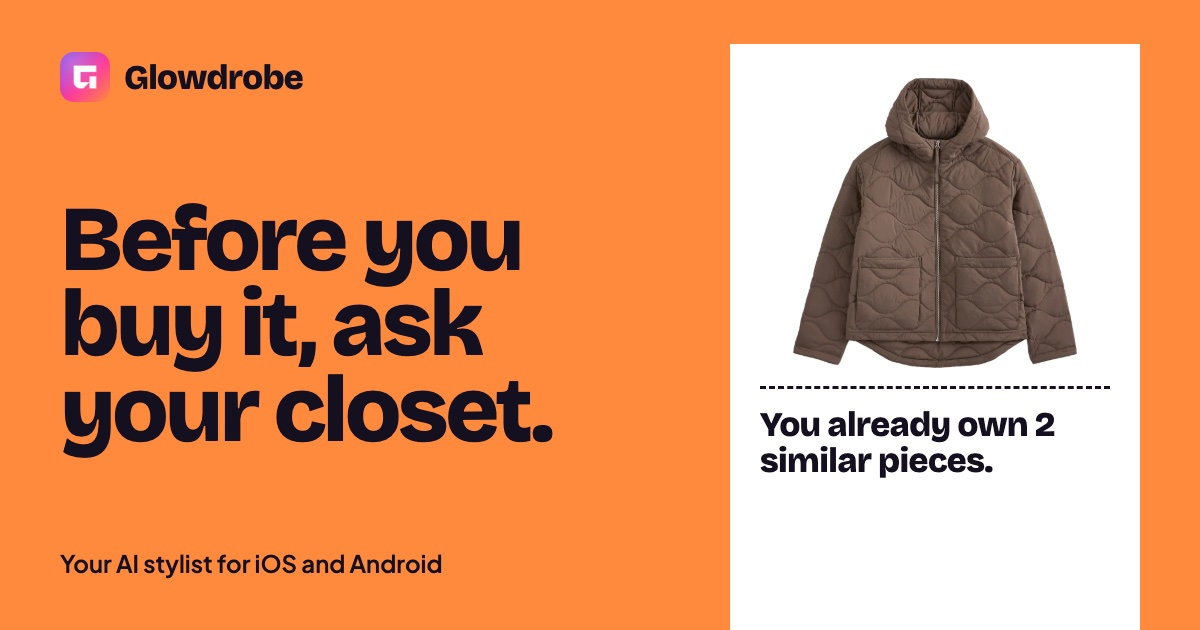
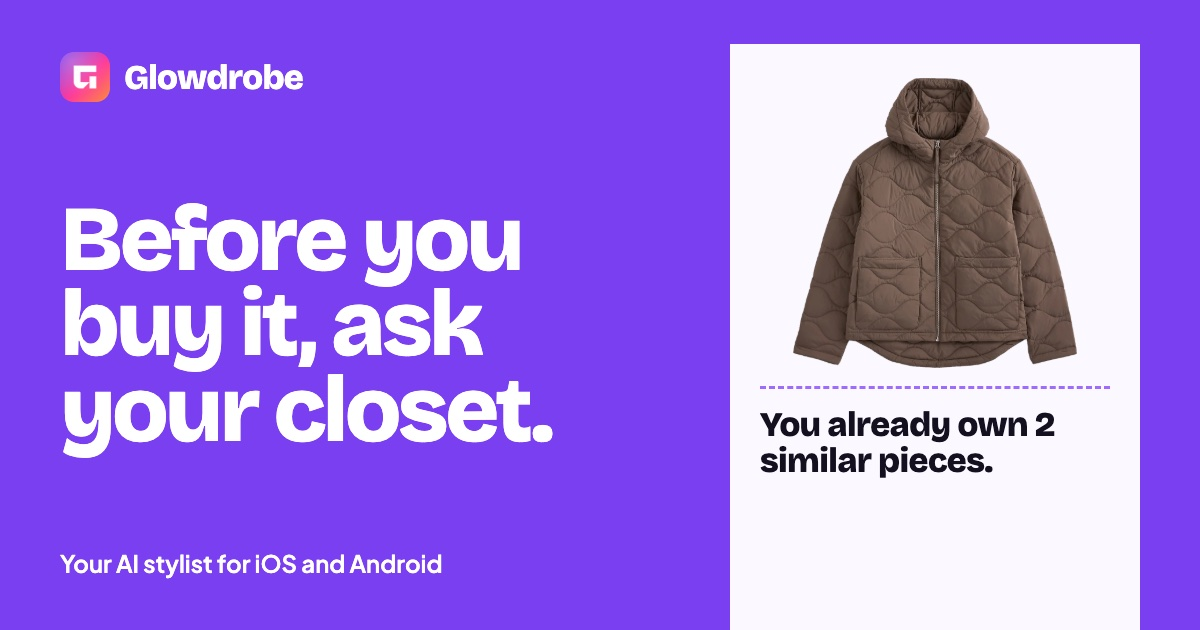
Match the mobile app: violet ground, lilac paper, lime action

diff --git a/assets/css/site.css b/assets/css/site.css
@@ -98,7 +98,7 @@ html[data-launch="live"] [data-when="prelaunch"] { display: none !important; }
   *, *::before, *::after { animation-duration: .01ms !important; animation-iteration-count: 1 !important; transition-duration: .01ms !important; }
 }
 
-body { background: var(--tangerine); --focus-ring: rgba(20, 16, 31, .28); }
+body { background: var(--violet); color: #fff; --focus-ring: rgba(255, 255, 255, .85); }
 .split { display: grid; grid-template-columns: minmax(0, 1.08fr) minmax(0, 1fr); gap: clamp(20px, 4vw, 72px); padding-inline-end: clamp(20px, 5vw, 88px); }
 .side { position: sticky; top: 0; height: 100svh; min-height: 620px; display: flex; flex-direction: column; justify-content: space-between; padding-block: 22px; padding-inline-start: var(--gutter); }
 .side-mid { display: grid; gap: 20px; }
@@ -118,7 +118,7 @@ body { background: var(--tangerine); --focus-ring: rgba(20, 16, 31, .28); }
 .scan h2 { font-size: 30px; margin-bottom: 12px; }
 .tabs { display: flex; flex-wrap: wrap; gap: 6px; }
 .tabs button { min-height: 44px; padding: 0 14px; border: 2px solid var(--ink); border-radius: 8px; background: #fff; font-weight: 700; font-size: 15px; transition: background .2s, color .2s; }
-.tabs button:hover { background: #FFE7D6; }
+.tabs button:hover { background: var(--lilac-2); }
 .tabs button[aria-selected="true"] { background: var(--ink); color: #fff; }
 .scan-item { position: relative; display: grid; place-items: center; height: clamp(170px, 23vh, 240px); margin-top: 14px; overflow: hidden; background: #FFF1E6; border-radius: 10px; }
 .scan-item img { position: absolute; inset: 6%; width: 88%; height: 88%; object-fit: contain; }
@@ -186,7 +186,7 @@ body { background: var(--tangerine); --focus-ring: rgba(20, 16, 31, .28); }
 .langs summary svg { width: 20px; height: 20px; }
 .langs ul { position: absolute; z-index: 20; top: 100%; inset-inline-end: 0; width: max-content; max-height: 70vh; overflow-y: auto; padding: 8px; background: #fff; color: var(--ink); border: 2px solid var(--ink); border-radius: 12px; columns: 2; column-gap: 8px; }
 .langs a { display: block; padding: 8px 10px; border-radius: 8px; text-decoration: none; break-inside: avoid; }
-.langs a:hover { background: #FFE7D6; }
+.langs a:hover { background: var(--lilac-2); }
 .langs a[aria-current] { font-weight: 700; background: var(--ink); color: #fff; }
 
 /* Scripts the brand faces don't cover use the platform's own type, untracked. */
@@ -321,3 +321,35 @@ html:lang(ja) .cta-note { word-break: keep-all; }
 /* The pill is the field: its ring shows focus, so the input inside draws none of its own. */
 .notify input:focus, .notify input:focus-visible { outline: 0; box-shadow: none; }
 .notify-row:focus-within { box-shadow: 0 0 0 3px var(--ink); }
+
+/* App identity: violet ground and actions, lime for the one accent, lilac surfaces. */
+:focus-visible { outline-color: #fff; box-shadow: 0 0 0 3px var(--ink); }
+.paper :focus-visible { outline-color: var(--violet); box-shadow: 0 0 0 3px var(--lilac-2); }
+.paper { color: var(--ink); background: var(--lilac); }
+.paper::before { background: linear-gradient(135deg, transparent 50%, var(--lilac) 50%) 0 0 / 18px 18px repeat-x, linear-gradient(225deg, transparent 50%, var(--lilac) 50%) 0 0 / 18px 18px repeat-x; }
+.paper::after { background: linear-gradient(45deg, transparent 50%, var(--lilac) 50%) 0 100% / 18px 18px repeat-x, linear-gradient(315deg, transparent 50%, var(--lilac) 50%) 0 100% / 18px 18px repeat-x; }
+.langs ul { color: var(--ink); }
+.langs a[aria-current] { background: var(--violet); }
+.side .notify-row { border-color: #fff; }
+.side .notify-row:focus-within { box-shadow: 0 0 0 3px var(--lime); }
+.side .notify input, .paper .notify input { color: var(--ink); }
+.side .notify button { background: var(--lime); color: var(--ink); }
+.side .notify button:hover { background: #D4FF4F; }
+.side .notify-msg[data-state="error"] { background: var(--ink); }
+.paper .notify-row { border-color: var(--violet); }
+.paper .notify-row:focus-within { box-shadow: 0 0 0 3px var(--lilac-2); }
+.paper .notify button { background: var(--violet); }
+.paper .notify button:hover { background: var(--violet-deep); }
+.tabs button { border-color: var(--violet); color: var(--violet-deep); }
+.tabs button[aria-selected="true"] { background: var(--violet); border-color: var(--violet); color: #fff; }
+.line-check { background: var(--violet); }
+.head, .scan, .li { border-bottom-color: var(--violet-bright); }
+.print i, .extras i { border-bottom-color: var(--violet-bright); }
+.barcode { color: var(--violet-deep); }
+.prices th, .prices td, .paper .faq details { border-bottom-color: var(--lilac-2); }
+.paper a { color: var(--violet-deep); }
+.foot, .paper + .foot { color: #fff; }
+.dock a { background: var(--violet); }
+.store { background: var(--ink); color: #fff; }
+.paper .store { color: #fff; }
+::selection { background: var(--lime); color: var(--ink); }

diff --git a/ru/index.html b/ru/index.html
@@ -5,7 +5,7 @@
 <meta name="viewport" content="width=device-width, initial-scale=1, viewport-fit=cover">
 <title>Glowdrobe: приложение-гардероб, ИИ-стилист и подбор образов</title>
 <meta name="description" content="Glowdrobe — ИИ-стилист для iOS и Android. Собирай образы из своей одежды, сверяй новые вещи с гардеробом и смотри, как образ выглядит на твоём фото.">
-<meta name="theme-color" content="#FF8A3D">
+<meta name="theme-color" content="#7B3FF2">
 <link rel="canonical" href="https://glowdrobe.ai/ru/">
 <link rel="alternate" hreflang="en" href="https://glowdrobe.ai/">
 <link rel="alternate" hreflang="ar" href="https://glowdrobe.ai/ar/">

diff --git a/ar/index.html b/ar/index.html
@@ -5,7 +5,7 @@
 <meta name="viewport" content="width=device-width, initial-scale=1, viewport-fit=cover">
 <title>Glowdrobe: تطبيق خزانة الملابس ومنسق أزياء بالذكاء الاصطناعي</title>
 <meta name="description" content="Glowdrobe منسق أزياء بالذكاء الاصطناعي على iOS وAndroid: إطلالات من ملابسك، ومقارنة القطع الجديدة بخزانتك، ومعاينة الإطلالة على صورتك.">
-<meta name="theme-color" content="#FF8A3D">
+<meta name="theme-color" content="#7B3FF2">
 <link rel="canonical" href="https://glowdrobe.ai/ar/">
 <link rel="alternate" hreflang="en" href="https://glowdrobe.ai/">
 <link rel="alternate" hreflang="ar" href="https://glowdrobe.ai/ar/">

diff --git a/ja/index.html b/ja/index.html
@@ -5,7 +5,7 @@
 <meta name="viewport" content="width=device-width, initial-scale=1, viewport-fit=cover">
 <title>Glowdrobe: AIスタイリストのコーデ・クローゼット管理アプリ</title>
 <meta name="description" content="GlowdrobeはiOS・Android対応のAIスタイリスト・服管理アプリ。手持ちの服でコーデを作り、新しい服をクローゼットと見比べて、自分の写真で試着できます。">
-<meta name="theme-color" content="#FF8A3D">
+<meta name="theme-color" content="#7B3FF2">
 <link rel="canonical" href="https://glowdrobe.ai/ja/">
 <link rel="alternate" hreflang="en" href="https://glowdrobe.ai/">
 <link rel="alternate" hreflang="ar" href="https://glowdrobe.ai/ar/">

diff --git a/ko/index.html b/ko/index.html
@@ -5,7 +5,7 @@
 <meta name="viewport" content="width=device-width, initial-scale=1, viewport-fit=cover">
 <title>Glowdrobe: AI 스타일리스트 코디 추천·옷장 정리 앱</title>
 <meta name="description" content="Glowdrobe는 iOS와 Android용 AI 스타일리스트예요. 내 옷으로 코디를 만들고, 새 옷을 옷장과 비교하고, 내 사진에 입혀 볼 수 있어요.">
-<meta name="theme-color" content="#FF8A3D">
+<meta name="theme-color" content="#7B3FF2">
 <link rel="canonical" href="https://glowdrobe.ai/ko/">
 <link rel="alternate" hreflang="en" href="https://glowdrobe.ai/">
 <link rel="alternate" hreflang="ar" href="https://glowdrobe.ai/ar/">

diff --git a/de/index.html b/de/index.html
@@ -5,7 +5,7 @@
 <meta name="viewport" content="width=device-width, initial-scale=1, viewport-fit=cover">
 <title>Glowdrobe: Kleiderschrank-App mit KI-Stylist &amp; Outfit-Planer</title>
 <meta name="description" content="Glowdrobe ist dein KI-Stylist für iOS und Android. Stell Outfits aus deiner Kleidung zusammen, gleich Neues mit dem Schrank ab und sieh den Look an dir.">
-<meta name="theme-color" content="#FF8A3D">
+<meta name="theme-color" content="#7B3FF2">
 <link rel="canonical" href="https://glowdrobe.ai/de/">
 <link rel="alternate" hreflang="en" href="https://glowdrobe.ai/">
 <link rel="alternate" hreflang="ar" href="https://glowdrobe.ai/ar/">

diff --git a/tr/index.html b/tr/index.html
@@ -5,7 +5,7 @@
 <meta name="viewport" content="width=device-width, initial-scale=1, viewport-fit=cover">
 <title>Glowdrobe: AI Stilist, Kombin ve Gardırop Uygulaması</title>
 <meta name="description" content="Glowdrobe, iOS ve Android için yapay zeka stilisti. Kıyafetlerinden kombin yap, yeni parçaları dolabınla karşılaştır, görünümü fotoğrafında gör.">
-<meta name="theme-color" content="#FF8A3D">
+<meta name="theme-color" content="#7B3FF2">
 <link rel="canonical" href="https://glowdrobe.ai/tr/">
 <link rel="alternate" hreflang="en" href="https://glowdrobe.ai/">
 <link rel="alternate" hreflang="ar" href="https://glowdrobe.ai/ar/">

diff --git a/pl/index.html b/pl/index.html
@@ -5,7 +5,7 @@
 <meta name="viewport" content="width=device-width, initial-scale=1, viewport-fit=cover">
 <title>Glowdrobe: wirtualna szafa, stylista AI, planer stylizacji</title>
 <meta name="description" content="Glowdrobe to stylista AI na iOS i Androida. Twórz stylizacje z ubrań, które masz, sprawdzaj nowe rzeczy w swojej szafie i zobacz look na swoim zdjęciu.">
-<meta name="theme-color" content="#FF8A3D">
+<meta name="theme-color" content="#7B3FF2">
 <link rel="canonical" href="https://glowdrobe.ai/pl/">
 <link rel="alternate" hreflang="en" href="https://glowdrobe.ai/">
 <link rel="alternate" hreflang="ar" href="https://glowdrobe.ai/ar/">

diff --git a/index.html b/index.html
@@ -5,7 +5,7 @@
 <meta name="viewport" content="width=device-width, initial-scale=1, viewport-fit=cover">
 <title>Glowdrobe: AI Stylist &amp; Outfit Planner for Your Own Closet</title>
 <meta name="description" content="Glowdrobe is an AI stylist for iOS and Android. Build outfits from clothes you own, check new pieces against your closet, and see the look on your photo.">
-<meta name="theme-color" content="#FF8A3D">
+<meta name="theme-color" content="#7B3FF2">
 <link rel="canonical" href="https://glowdrobe.ai/">
 <link rel="alternate" hreflang="en" href="https://glowdrobe.ai/">
 <link rel="alternate" hreflang="ar" href="https://glowdrobe.ai/ar/">

diff --git a/fr/index.html b/fr/index.html
@@ -5,7 +5,7 @@
 <meta name="viewport" content="width=device-width, initial-scale=1, viewport-fit=cover">
 <title>Glowdrobe : styliste IA et appli dressing pour tes tenues</title>
 <meta name="description" content="Glowdrobe, le styliste IA sur iOS et Android. Crée des tenues avec tes vêtements, compare une pièce à ta garde-robe et vois le look sur ta photo.">
-<meta name="theme-color" content="#FF8A3D">
+<meta name="theme-color" content="#7B3FF2">
 <link rel="canonical" href="https://glowdrobe.ai/fr/">
 <link rel="alternate" hreflang="en" href="https://glowdrobe.ai/">
 <link rel="alternate" hreflang="ar" href="https://glowdrobe.ai/ar/">

diff --git a/nl/index.html b/nl/index.html
@@ -5,7 +5,7 @@
 <meta name="viewport" content="width=device-width, initial-scale=1, viewport-fit=cover">
 <title>Glowdrobe: kledingkast-app met AI-stylist en outfitplanner</title>
 <meta name="description" content="Glowdrobe is een AI-stylist voor iOS en Android. Maak outfits met je eigen kleding, check nieuwe items met je kledingkast en zie de look op je foto.">
-<meta name="theme-color" content="#FF8A3D">
+<meta name="theme-color" content="#7B3FF2">
 <link rel="canonical" href="https://glowdrobe.ai/nl/">
 <link rel="alternate" hreflang="en" href="https://glowdrobe.ai/">
 <link rel="alternate" hreflang="ar" href="https://glowdrobe.ai/ar/">

diff --git a/es/index.html b/es/index.html
@@ -5,7 +5,7 @@
 <meta name="viewport" content="width=device-width, initial-scale=1, viewport-fit=cover">
 <title>Glowdrobe: estilista IA y app de armario para tus outfits</title>
 <meta name="description" content="Glowdrobe es un estilista IA para iOS y Android. Crea conjuntos con tu ropa, compara prendas nuevas con tu armario y mira el look en tu propia foto.">
-<meta name="theme-color" content="#FF8A3D">
+<meta name="theme-color" content="#7B3FF2">
 <link rel="canonical" href="https://glowdrobe.ai/es/">
 <link rel="alternate" hreflang="en" href="https://glowdrobe.ai/">
 <link rel="alternate" hreflang="ar" href="https://glowdrobe.ai/ar/">
